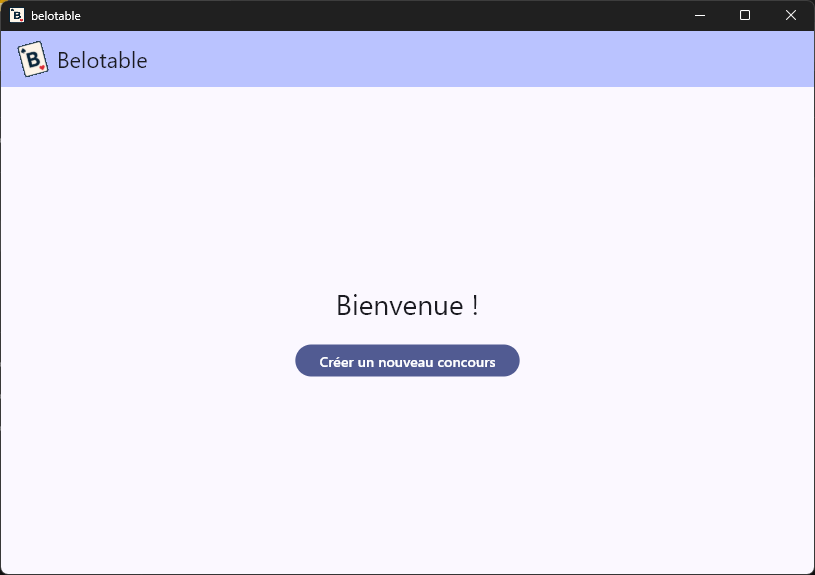
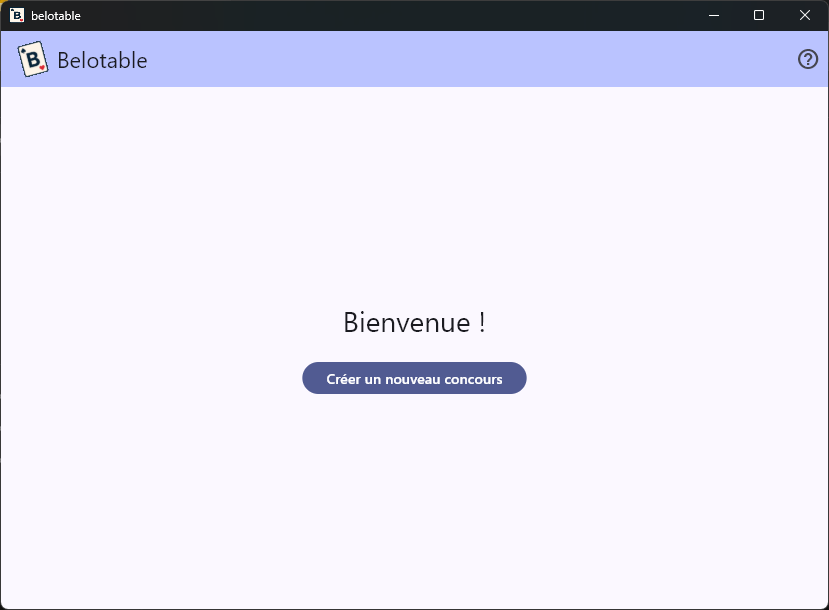
feat: add version information page (#15)

Changed region(s): [[0.0, 0.0, 1.0, 0.1774], [0.3374, 0.5913, 0.6442, 0.68], [0.3988, 0.5026, 0.5828, 0.5617]]

diff --git a/belotable/lib/presentation/shared/app_info_page.dart b/belotable/lib/presentation/shared/app_info_page.dart
@@ -1,0 +1,87 @@
+import 'package:flutter/material.dart';
+import 'package:package_info_plus/package_info_plus.dart';
+import 'package:url_launcher/url_launcher.dart';
+
+const _githubRepoUrl = 'https://github.com/estelle-bissay-viseo/belotable';
+
+/// Displays read-only application information.
+class AppInfoPage extends StatefulWidget {
+  /// Creates information page.
+  const AppInfoPage({super.key});
+
+  /// Named route used by navigator.
+  static const routeName = '/app-info';
+
+  @override
+  State<AppInfoPage> createState() => _AppInfoPageState();
+}
+
+class _AppInfoPageState extends State<AppInfoPage> {
+  late final Future<String> _versionFuture;
+
+  @override
+  void initState() {
+    super.initState();
+    _versionFuture = _loadVersion();
+  }
+
+  Future<String> _loadVersion() async {
+    final info = await PackageInfo.fromPlatform();
+    return info.version;
+  }
+
+  Future<void> _openRepository() async {
+    final uri = Uri.parse(_githubRepoUrl);
+    final launched = await launchUrl(uri, mode: LaunchMode.externalApplication);
+
+    if (!launched && mounted) {
+      ScaffoldMessenger.of(context).showSnackBar(
+        const SnackBar(
+          content: Text("Impossible d'ouvrir le lien du dépôt GitHub."),
+        ),
+      );
+    }
+  }
+
+  @override
+  Widget build(BuildContext context) {
+    return Scaffold(
+      appBar: AppBar(
+        title: const Text('Informations'),
+      ),
+      body: Center(
+        child: Padding(
+          padding: const EdgeInsets.all(24),
+          child: Column(
+            mainAxisSize: MainAxisSize.min,
+            children: [
+              FutureBuilder<String>(
+                future: _versionFuture,
+                builder: (context, snapshot) {
+                  final version = snapshot.data ?? '...';
+                  return Text(
+                    'Version : $version',
+                    key: const Key('app_info_version_text'),
+                    style: Theme.of(context).textTheme.titleMedium,
+                  );
+                },
+              ),
+              const SizedBox(height: 16),
+              TextButton(
+                key: const Key('app_info_repo_link_button'),
+                onPressed: _openRepository,
+                child: const Text(_githubRepoUrl),
+              ),
+              const SizedBox(height: 24),
+              FilledButton(
+                key: const Key('app_info_back_button'),
+                onPressed: () => Navigator.of(context).pop(),
+                child: const Text('Retour'),
+              ),
+            ],
+          ),
+        ),
+      ),
+    );
+  }
+}

diff --git a/belotable/test/widgets/app_info_page_test.dart b/belotable/test/widgets/app_info_page_test.dart
@@ -1,0 +1,65 @@
+// This is a basic Flutter widget test.
+//
+// To perform an interaction with a widget in your test, use the WidgetTester
+// utility in the flutter_test package. For example, you can send tap and scroll
+// gestures. You can also use WidgetTester to find child widgets in the widget
+// tree, read text, and verify that the values of widget properties are correct.
+
+import 'package:flutter/services.dart';
+import 'package:flutter/widgets.dart';
+import 'package:flutter_test/flutter_test.dart';
+
+import '../helpers/test_utils.dart';
+
+void main() {
+  const packageInfoChannel = MethodChannel(
+    'dev.fluttercommunity.plus/package_info',
+  );
+
+  TestWidgetsFlutterBinding.ensureInitialized();
+
+  setUpAll(() {
+    TestDefaultBinaryMessengerBinding.instance.defaultBinaryMessenger
+        .setMockMethodCallHandler(packageInfoChannel, (methodCall) async {
+          if (methodCall.method == 'getAll') {
+            return <String, dynamic>{
+              'appName': 'Belotable',
+              'packageName': 'com.example.belotable',
+              'version': '9.9.9-test',
+              'buildNumber': '1',
+              'buildSignature': '',
+              'installerStore': '',
+              'installTime': null,
+              'updateTime': null,
+            };
+          }
+
+          return null;
+        });
+  });
+
+  tearDownAll(() {
+    TestDefaultBinaryMessengerBinding.instance.defaultBinaryMessenger
+        .setMockMethodCallHandler(packageInfoChannel, null);
+  });
+
+  widgetDbTest('User can open information page and go back', (
+    tester,
+    db,
+  ) async {
+    await pumpTestApp(tester, db);
+
+    await tester.tap(find.byKey(const Key('home_info_button')));
+    await tester.pumpAndSettle();
+
+    expect(find.text('Informations'), findsOneWidget);
+    expect(find.byKey(const Key('app_info_version_text')), findsOneWidget);
+    expect(find.textContaining('Version : 9.9.9-test'), findsOneWidget);
+    expect(find.byKey(const Key('app_info_repo_link_button')), findsOneWidget);
+
+    await tester.tap(find.byKey(const Key('app_info_back_button')));
+    await tester.pumpAndSettle();
+
+    expect(find.byKey(const Key('home_body_title')), findsOneWidget);
+  });
+}

diff --git a/belotable/integration_test/pages/home_info_page_test.dart b/belotable/integration_test/pages/home_info_page_test.dart
@@ -1,0 +1,38 @@
+import 'package:flutter/widgets.dart';
+import 'package:flutter_test/flutter_test.dart';
+import 'package:integration_test/integration_test.dart';
+
+import '../helpers/test_utils.dart';
+
+void main() {
+  IntegrationTestWidgetsFlutterBinding.ensureInitialized();
+
+  e2eTest(
+    'Home info page',
+    'User can open app info page and return home',
+    (tester, db) async {
+      await pumpTestApp(tester, db);
+
+      await tester.tap(find.byKey(const Key('home_info_button')));
+      await tester.pumpAndSettle();
+
+      expect(find.text('Informations'), findsOneWidget);
+      expect(find.byKey(const Key('app_info_version_text')), findsOneWidget);
+      expect(
+        find.byKey(const Key('app_info_repo_link_button')),
+        findsOneWidget,
+      );
+
+      final versionText = tester.widget<Text>(
+        find.byKey(const Key('app_info_version_text')),
+      );
+      expect(versionText.data, isNotNull);
+      expect(versionText.data, startsWith('Version : '));
+
+      await tester.tap(find.byKey(const Key('app_info_back_button')));
+      await tester.pumpAndSettle();
+
+      expect(find.byKey(const Key('home_body_title')), findsOneWidget);
+    },
+  );
+}

diff --git a/belotable/lib/presentation/shared/home_page.dart b/belotable/lib/presentation/shared/home_page.dart
@@ -1,6 +1,7 @@
 import 'dart:math' show pi;
 
 import 'package:belotable/gen/assets.gen.dart';
+import 'package:belotable/presentation/shared/app_info_page.dart';
 import 'package:belotable/presentation/shared/concours/concours_creation_page.dart';
 import 'package:flutter/material.dart';
 
@@ -42,6 +43,15 @@ class _MyHomePageState extends State<MyHomePage> {
             ),
           ],
         ),
+        actions: [
+          IconButton(
+            key: const Key('home_info_button'),
+            onPressed: () =>
+                Navigator.of(context).pushNamed(AppInfoPage.routeName),
+            icon: const Icon(Icons.help_outline),
+            tooltip: 'Informations',
+          ),
+        ],
       ),
       body: Center(
         child: Column(

diff --git a/belotable/integration_test/all_tests.dart b/belotable/integration_test/all_tests.dart
@@ -2,6 +2,7 @@ import 'package:integration_test/integration_test.dart';
 
 import 'pages/app_common_page_test.dart' as app_common_page;
 import 'pages/concours_creation_page_test.dart' as concours_creation_page;
+import 'pages/home_info_page_test.dart' as home_info_page;
 import 'pages/home_page_test.dart' as home_page;
 
 // This file is the entry point for all integration tests because
@@ -12,5 +13,6 @@ void main() {
 
   app_common_page.main();
   concours_creation_page.main();
+  home_info_page.main();
   home_page.main();
 }

diff --git a/belotable/lib/main.dart b/belotable/lib/main.dart
@@ -1,3 +1,4 @@
+import 'package:belotable/presentation/shared/app_info_page.dart';
 import 'package:belotable/presentation/shared/concours/concours_creation_page.dart';
 import 'package:belotable/presentation/shared/home_page.dart';
 import 'package:flutter/material.dart';
@@ -35,6 +36,7 @@ class MyApp extends StatelessWidget {
         colorScheme: ColorScheme.fromSeed(seedColor: Colors.indigo),
       ),
       routes: {
+        AppInfoPage.routeName: (_) => const AppInfoPage(),
         ConcoursCreationPage.routeName: (_) => const ConcoursCreationPage(),
       },
       home: const MyHomePage(

diff --git a/belotable/windows/flutter/generated_plugin_registrant.cc b/belotable/windows/flutter/generated_plugin_registrant.cc
@@ -6,6 +6,9 @@
 
 #include "generated_plugin_registrant.h"
 
+#include <url_launcher_windows/url_launcher_windows.h>
 
 void RegisterPlugins(flutter::PluginRegistry* registry) {
+  UrlLauncherWindowsRegisterWithRegistrar(
+      registry->GetRegistrarForPlugin("UrlLauncherWindows"));
 }

diff --git a/user-docs/docs/annexes.md b/user-docs/docs/annexes.md
@@ -1,0 +1,11 @@
+# Annexes
+
+## Page d'informations
+
+Depuis la page d'accueil, cliquez sur le bouton d'information (icône "?" à droite dans la barre supérieure) pour accéder à la page d'informations de l'application.
+
+![Bouton informations sur la page d'accueil](./assets/images/page-home-btn-infos.png)
+
+La page d'informations indique la version de l'application que vous utilisez, ainsi qu'un lien vers la page GitHub du projet pour signaler un bug, demander une nouvelle fonctionnalité ou télécharger la dernière version.
+
+![Page d'informations](./assets/images/page-app-infos.png)

diff --git a/.agents/skills/implement-feature/SKILL.md b/.agents/skills/implement-feature/SKILL.md
@@ -92,9 +92,9 @@ Apply MVC intent without breaking existing layering:
 8. Run Quality Gates
    - Run static analysis and tests relevant to touched code.
    - Required validation before finalizing:
-     - `flutter analyze`
-     - `flutter test`
-     - `flutter test integration_test/all_tests.dart` (or documented subset if full run is too expensive)
+     - `fvm flutter analyze`
+     - `fvm flutter test`
+     - `fvm flutter test integration_test/all_tests.dart -d windows` (or documented subset if full run is too expensive)
 
 9. Produce Delivery Summary
    - Report what was implemented by layer (Model, Controller, View).

diff --git a/technical-docs/reference/developper-to-do-list.md b/technical-docs/reference/developper-to-do-list.md
@@ -16,6 +16,8 @@ Vérifier régulièrement, et en particulier en fin de développement, les comma
 
 ```bash
 cd belotable
+# vérifier que les dépendances sont à jour
+fvm flutter pub get
 # regénérer les fichiers générés (si nécessaire)
 fvm dart run build_runner build --delete-conflicting-outputs
 # vérifier que le code est correctement formaté